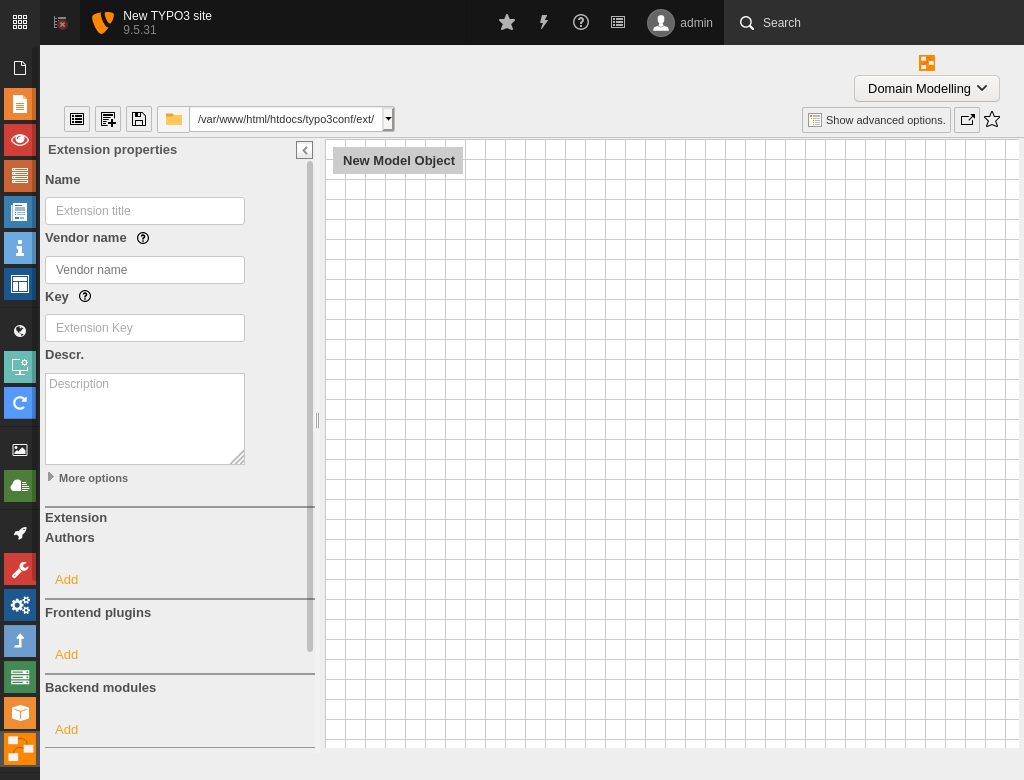
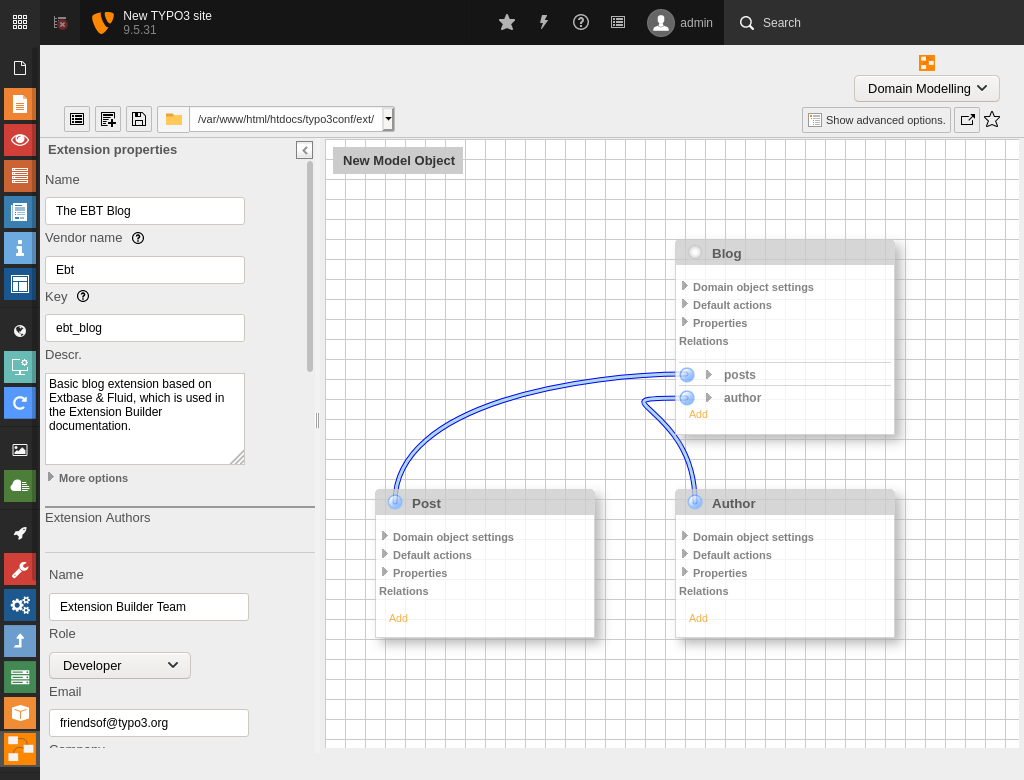
[DOCS] Small fixes derived from backport of documentation
- linked to https://docs.typo3.org/p/... instead of outdated https://docs.typo3.org/typo3cms/extensions/...
- compared the list of prefixes for extension names that are not allowed - in description and implementation
- main module "site" did not exist in TYPO3 v9 yet, used "tools" instead
- update hint that the generated extension is symlinked by Composer instead of Extension Builder (both is true, but the first is expected)
- add hint of completing the installation in composer mode by installing the extension in the Extension Manager
- show the blog example in the introduction screenshot instead of an empty graphical editor
- list the documentation folder also in the generated extension files of the introduction chapter
- always link to the latest version of the extension publishing guide as the steps do not depend on the TYPO3 compatibility of the generated extension

diff --git a/Documentation/GraphicalEditor/Index.rst b/Documentation/GraphicalEditor/Index.rst
@@ -58,8 +58,8 @@ Feel encouraged to save frequently.
 +----------------------+----------------------------------------------------------------------------------------------------------+
 |**Key**               |The extension key must be a lowercase, underscored, alphanumeric string.                                  |
 |                      |It must be unique throughout the TER and is best composed of the vendor name and an extension specific    |
-|                      |name, such as ``<vendorname>_<extension_name>``, where it must not start with "tx\_", "u\_", "user\_",    |
-|                      |"pages\_", "sys\_", and "csh\_". It is used                                                               |
+|                      |name, such as ``<vendorname>_<extension_name>``, where it must not start with "tx\_", "pages\_", "tt\_",  |
+|                      |"sys\_", "ts\_language\_", and "csh\_". It is used                                                        |
 |                      |                                                                                                          |
 |                      |- as extension directory name :file:`<extension_key>/`,                                                   |
 |                      |- in the language files: ``product-name=<extension_key>`` and                                             |
@@ -369,7 +369,7 @@ backend.
 |**Tab label**                      |The module name in the TYPO3 module menu can be any string.                                  |
 +-----------------------------------+---------------------------------------------------------------------------------------------+
 |**Main module**                    |This is the module key of the section in the TYPO3 module menu to which the module is        |
-|                                   |assigned. For example, "web" or "site".                                                      |
+|                                   |assigned. For example, "web" or "tools".                                                     |
 +-----------------------------------+---------------------------------------------------------------------------------------------+
 |**Controller action combinations** |In each line all actions of a controller supported by this module are listed by              |
 |(Advanced options)                 |``<controllerName> => <action1>,<action2>,...``. The first action of the first line is the   |
@@ -402,8 +402,7 @@ If you run TYPO3 in :doc:`Composer mode <t3install:QuickInstall/Composer/Index>`
 you have to specify and configure a `local path repository <https://getcomposer.org/doc/05-repositories.md#path>`_
 before saving your extension. Extension Builder reads the path from the TYPO3
 project :file:`composer.json` and offers it as a target path to save the
-extension. Extension Builder creates a symlink :file:`typo3conf/ext/<extension_key>/`
-to your extension.
+extension.
 
 The local path repository is normally configured as follows:
 
@@ -418,7 +417,7 @@ The local path repository is normally configured as follows:
        }
    }
 
-To install the extension in the TYPO3 instance you have to execute the usual:
+To install the extension in the TYPO3 instance, you first need to run the usual:
 
 .. code-block:: bash
 
@@ -429,6 +428,11 @@ To install the extension in the TYPO3 instance you have to execute the usual:
 .. code-block:: bash
 
    composer require ebt/ebt-blog:@dev
+
+which will cause a symlink :file:`typo3conf/ext/<extension_key>/` to your extension
+to be created and the extension to be recognized in the Extension Manager.
+
+Now install the extension in the Extension Manager.
 
 6.b. Legacy mode
 ----------------

diff --git a/Documentation/GeneratedExtension/Index.rst b/Documentation/GeneratedExtension/Index.rst
@@ -204,7 +204,9 @@ If you publish the extension to the *TYPO3 Extension Repository* (TER), do not
 put the rendered documentation under version control, as the documentation will
 be registered during the :doc:`publishing process </PublishToTer/Index>` for
 automatic rendering and deployment to
-:samp:`https://docs.typo3.org/typo3cms/extensions/<extension_name>/`.
+:samp:`https://docs.typo3.org/p/<vendor-name>/<extension-name>/<version>/<language>/`
+, for example to
+:samp:`https://docs.typo3.org/p/friendsoftypo3/extension-builder/9.10/en-us/`.
 
 If the extension is for private use, you are free to do anything with the
 rendered documentation - including, of course, putting it under version control.

diff --git a/Documentation/PublishToTer/Index.rst b/Documentation/PublishToTer/Index.rst
@@ -33,4 +33,4 @@ and write appropriate documentation following
 * :ref:`documentation`
 
 before publishing the extension on TER and Packagist, following the official
-:doc:`publishing guide <t3coreapi:ExtensionArchitecture/PublishExtension/Index>`.
+:doc:`publishing guide <t3coreapi-latest:ExtensionArchitecture/PublishExtension/Index>`.

diff --git a/Documentation/Introduction/Index.rst b/Documentation/Introduction/Index.rst
@@ -50,6 +50,7 @@ and further developed:
        ├── ExtensionBuilder.json
        ├── Classes/..
        ├── Configuration/..
+       ├── Documentation.tmpl/..
        ├── Resources/..
        └── Tests/..
 
